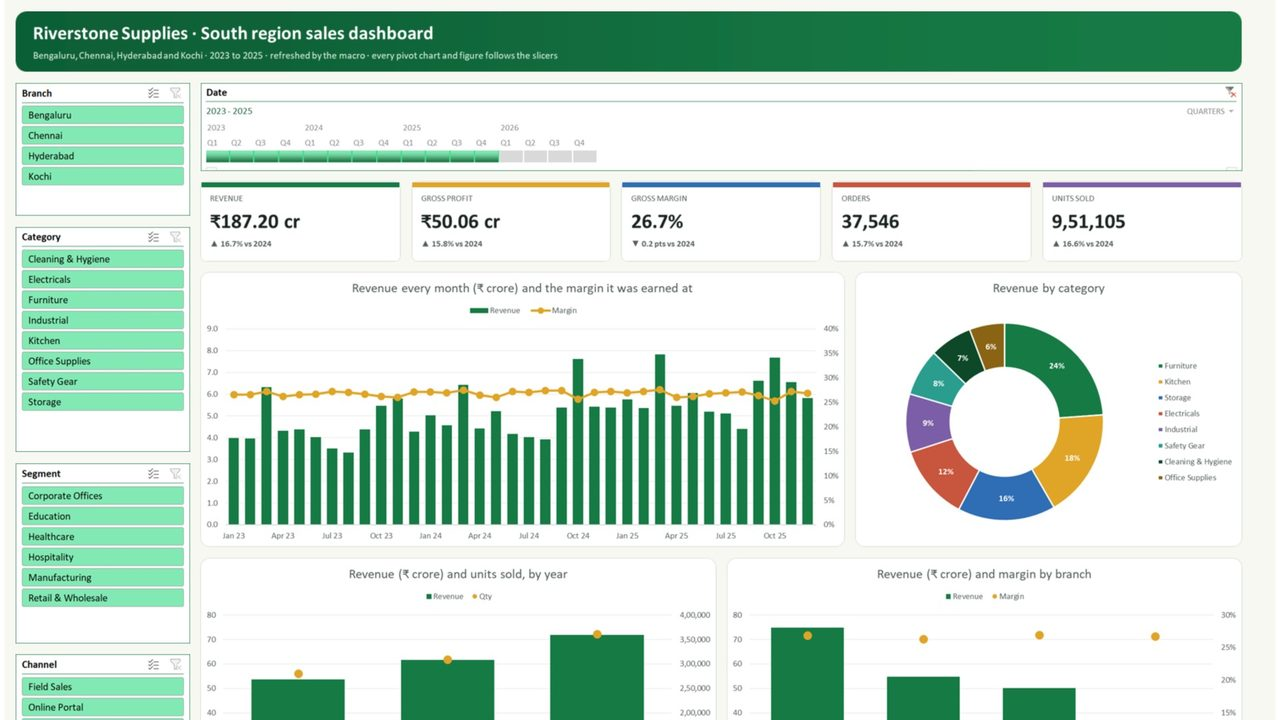
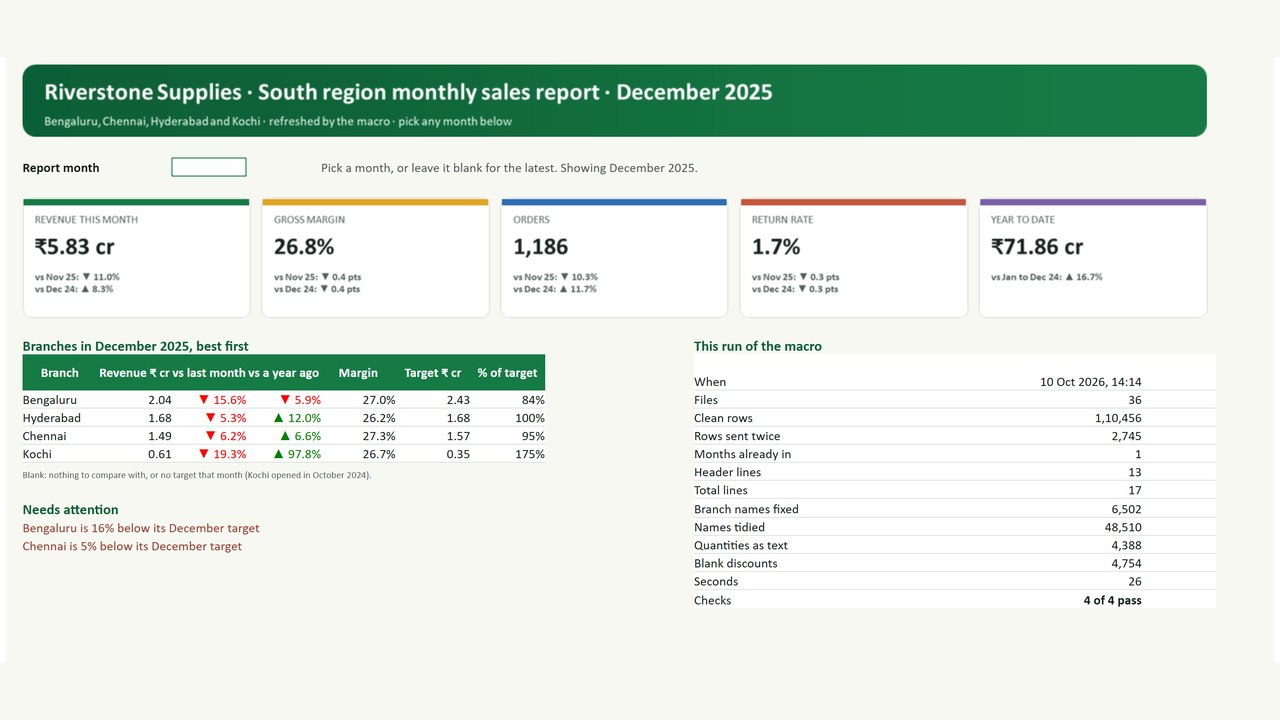
P0.5 Monthly Sales Report Automation: the rebuilt project
The macro now refreshes a monthly report you can turn to any month (against
last month and a year earlier, branches ranked against target, what needs
attention) with a trends sheet behind it, instead of a twelve-chart
dashboard; the test import takes about 26 seconds. New tagline, What I built,
skills and cover picture.

diff --git a/portfolio/projects/p05-monthly-sales-report-automation/README.md b/portfolio/projects/p05-monthly-sales-report-automation/README.md
@@ -1,15 +1,15 @@
 # P0.5 · Monthly Sales Report Automation
 
-> One click imports three years of messy monthly files and refreshes a twelve-chart dashboard; you write four parts of the macro.
+> One click imports three years of messy monthly files and refreshes a monthly report you can turn to any month; you write four parts of the macro.
 
 ![Monthly Sales Report Automation](../../images/p05-monthly-sales-report-automation.jpg)
-<sub>Excel's own picture of the dashboard the project's macro refreshes, on its made-up sales data.</sub>
+<sub>Excel's own picture of the monthly report the project's macro refreshes, on its made-up sales data.</sub>
 
 ## What I built
 
-Every month the branch system sends a CSV file with the same problems, and someone cleans it by hand. With one click the macro imports every new file from an inbox folder, fixes its problems, adds the rows to an Excel table, moves the file to an imported folder, refreshes a twelve-chart dashboard and writes a log line of what it found. In the test it read 37 files, 1,13,231 rows, and kept 1,10,456, in about 28 seconds.
+Every month the branch system sends a CSV file with the same problems, and someone cleans it by hand. With one click the macro imports every new file from an inbox folder, fixes its problems, adds the rows to an Excel table, moves the file to an imported folder, refreshes a monthly report that can be turned to any month (with a trends sheet behind it) and writes a log line of what it found. In the test it read 37 files, 1,13,231 rows, and kept 1,10,456, in about 26 seconds.
 
-Four branches send 37 monthly sales files (1.13 lakh rows, 2023–2025) with ten problems planted on purpose: rows and a whole month sent twice, repeated headers, total lines, misspelt branches, text dates and quantities, codes and blanks. A VBA macro fixes and counts every one and refreshes a twelve-chart dashboard. Made-up company, made-up data. Windows Excel 2021, 2024 or Microsoft 365 only (paid).
+Four branches send 37 monthly sales files (1.13 lakh rows, 2023–2025) with ten problems planted on purpose: rows and a whole month sent twice, repeated headers, total lines, misspelt branches, text dates and quantities, codes and blanks. A VBA macro fixes and counts every one and refreshes a monthly report (any month, against last month and a year earlier, with the branches ranked and what needs attention) and a trends sheet. Made-up company, made-up data. Windows Excel 2021, 2024 or Microsoft 365 only (paid).
 
 ## Tools
 
@@ -21,7 +21,8 @@ Four branches send 37 monthly sales files (1.13 lakh rows, 2023–2025) with ten
 - Reading a folder of files with Dir, and lookups with Scripting.Dictionary
 - Writing rows to a table in one block
 - Error handling that tells the user what failed
-- A pivot dashboard with slicers, a timeline, targets and a forecast
+- A monthly report turned to any month with one drop-down: SUMIFS, SORTBY and a branch league table against target
+- A trends sheet: pivots with slicers, a timeline, targets and a forecast
 
 ## Data
 

diff --git a/portfolio/README.md b/portfolio/README.md
@@ -54,7 +54,7 @@ Messy business data turned into dashboards and one-click reports, in Excel, VBA 
 | | Project | What it does | Tools |
 |---|---|---|---|
 | **P0** | [Branch Sales Dashboard](projects/p0-branch-sales-dashboard/README.md) | Turn three years of messy sales into a clickable dashboard, and find out why goods are coming back. | Excel 2021, 2024 or Microsoft 365 (paid) |
-| **P0.5** | [Monthly Sales Report Automation](projects/p05-monthly-sales-report-automation/README.md) | One click imports three years of messy monthly files and refreshes a twelve-chart dashboard; you write four parts of the macro. | Excel on Windows (2021, 2024 or Microsoft 365, paid) · VBA |
+| **P0.5** | [Monthly Sales Report Automation](projects/p05-monthly-sales-report-automation/README.md) | One click imports three years of messy monthly files and refreshes a monthly report you can turn to any month; you write four parts of the macro. | Excel on Windows (2021, 2024 or Microsoft 365, paid) · VBA |
 | **P1** | [Pune Branch Sales Review](projects/p1-pune-branch-sales-review/README.md) | Clean three years of company sales in Python, find why Pune’s profit fell behind, and build your own Streamlit page. | Python · pandas · Plotly · Streamlit · Jupyter |
 
 ## 🧰 Python automation kits
